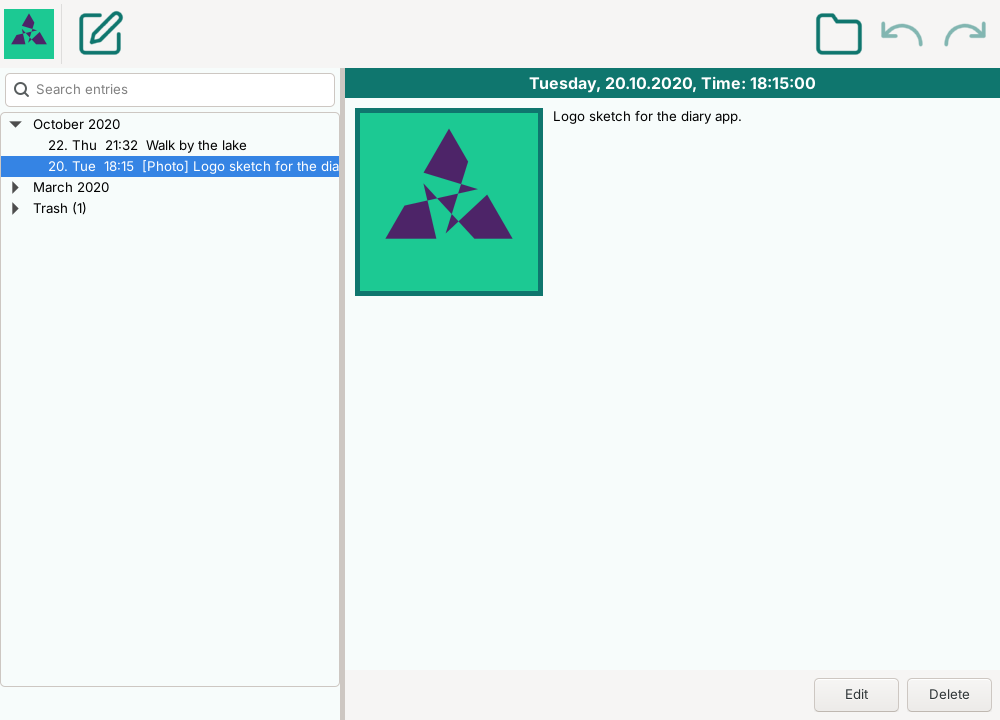
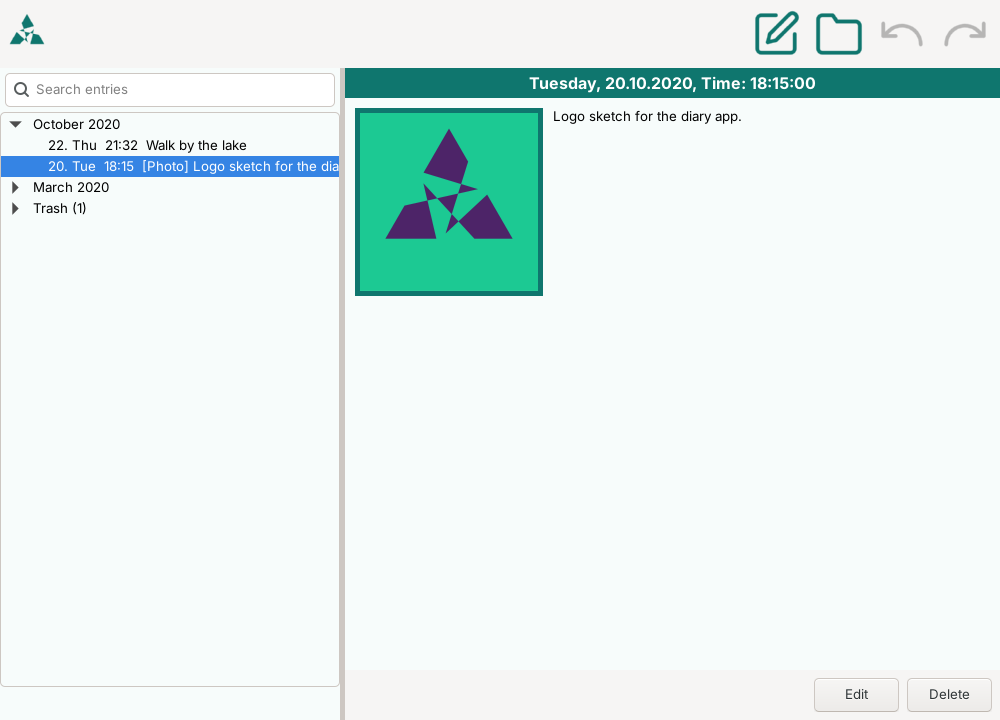
Small fixes (#43)
- Remove image only with an image, upload/take image only without one.
- All tools of the top bar are on the right of the logo.
- Disabled tools (undo/redo) get their own gray, faded icon on every platform.
- No blinking cursor in the read-only text (Windows: HideCaret).
- New logo as an SVG in currentColor (theme color), made by tools/make_logo.py;
  the icons use currentColor too. The unused icons and the old logo are gone.

Claude-Session: https://claude.ai/code/session_01LCQ9y7tKBQPgtgxiUpDuzf

Changed region(s): [[0.0, 0.0, 0.124, 0.0917], [0.744, 0.0, 0.806, 0.0917], [0.868, 0.0306, 0.992, 0.0611]]

diff --git a/story_time/user_interface.py b/story_time/user_interface.py
@@ -20,11 +20,13 @@ from story_time.util import (
     bar_text_col,
     but_bg_col,
     datetime_to_wx_datetime,
+    disabled_bitmap,
     format_date_time,
     get_image_to_show,
     header_col,
     header_f_info,
     header_text_col,
+    hide_caret,
     icon_path,
     resource_filename,
     scale_bitmap,
@@ -113,6 +115,11 @@ class TextAndImgPanel(wx.Panel):
             # Read-only, but scrollable to be able to read long entries
             kws["style"] |= wx.TE_READONLY | wx.BORDER_NONE
             self.text_box = wx.TextCtrl(self, value=text_shown, **kws)
+            # Nothing is typed here, so there should be no blinking cursor
+            for event in (wx.EVT_SET_FOCUS, wx.EVT_LEFT_UP, wx.EVT_KEY_UP):
+                self.text_box.Bind(
+                    event, lambda e: (e.Skip(), wx.CallAfter(hide_caret, self.text_box))
+                )
         self.text_box.SetBackgroundColour(bg_col)
 
         exp_all = wx.EXPAND | wx.ALL
@@ -369,20 +376,18 @@ class ToolbarPanel(wx.Panel):
         self.toolbar.SetToolBitmapSize(icon_size)
 
         # The logo on the left
-        logo = wx.Image(os.path.join(icon_path, "Entwurf.jpg"), wx.BITMAP_TYPE_ANY)
-        logo.Rescale(*icon_size, wx.IMAGE_QUALITY_HIGH)
-        self.logo = wx.StaticBitmap(self.toolbar, bitmap=wx.Bitmap(logo))
+        logo = wx.Bitmap(os.path.join(icon_path, "logo.png"), wx.BITMAP_TYPE_ANY)
+        self.logo = wx.StaticBitmap(self.toolbar, bitmap=scale_bitmap(logo, 46, 46))
         self.toolbar.AddControl(self.logo)
-        self.toolbar.AddSeparator()
+        # Everything else is on the right
+        self.toolbar.AddStretchableSpace()
 
-        for n, spec in enumerate(self.tool_list):
-            if n == 1:
-                # What is on the right of the window
-                self.toolbar.AddStretchableSpace()
+        for spec in self.tool_list:
             tool_id = wx.Window.NewControlId()
             icon = scale_bitmap(
                 wx.Bitmap(resource_filename(f"Icons/{spec.icon}")), *icon_size
             )
+            disabled = disabled_bitmap(icon)
             add_tool = (
                 self.toolbar.AddCheckTool if spec.toggle else self.toolbar.AddTool
             )
@@ -390,6 +395,7 @@ class ToolbarPanel(wx.Panel):
                 tool_id,
                 tr(f"{spec.text_key}.name"),
                 icon,
+                disabled,
                 shortHelp=self.tool_help(spec.text_key, spec.shortcut),
             )
             self.tools.append(tool)
@@ -446,7 +452,7 @@ class StoryTimeAppUI(wx.Frame):
         self.default_img_drop = os.path.join(icon_path, "default_img_txt.png")
         icon = wx.Icon()
         icon.CopyFromBitmap(
-            wx.Bitmap(os.path.join(icon_path, "Entwurf.jpg"), wx.BITMAP_TYPE_ANY)
+            wx.Bitmap(os.path.join(icon_path, "logo.png"), wx.BITMAP_TYPE_ANY)
         )
         self.SetIcon(icon)
         self.init_ui()
@@ -677,8 +683,10 @@ class StoryTimeAppUI(wx.Frame):
         self.image_drop_space.SetBitmap(
             get_image_to_show(self.default_img_drop if path is None else path)
         )
-        # The button to remove the image is only there if there is one
+        # An image is removed, otherwise one is added
         self.remove_image_button.Show(path is not None)
+        self.upload_button.Show(path is None)
+        self.selfie_button.Show(path is None)
         self.input_text_sizer.Layout()
         self.resized_layout()
 

diff --git a/tests/test_ui.py b/tests/test_ui.py
@@ -312,10 +312,20 @@ class TestTools(TestCase):
             shown = (
                 frame.draft_image,
                 frame.remove_image_button.IsShown(),
+                frame.upload_button.IsShown(),
+                frame.selfie_button.IsShown(),
                 frame.image_drop_space.IsShown(),
             )
+            press_button(frame.remove_image_button)
+            again = (
+                frame.remove_image_button.IsShown(),
+                frame.upload_button.IsShown(),
+                frame.selfie_button.IsShown(),
+            )
         assert dialogs.image_file_asked == 2 and nothing is None
-        assert shown == (TEST_IMG, True, True)
+        # With an image it can only be removed, without one only be added
+        assert shown == (TEST_IMG, True, False, False, True)
+        assert again == (False, True, True)
 
     def test_take_image_button(self):
         with main_window() as (frame, dialogs):
@@ -452,19 +462,33 @@ class TestTools(TestCase):
             os.path.join(img_dir, "IMG_1.jpg"),
         ]
 
-    def test_logo_is_on_the_left_and_undo_on_the_right(self):
+    def test_the_tools_are_on_the_right_of_the_logo(self):
         with main_window() as (frame, _):
-            logo = frame.toolbar.GetToolPos(frame.new_tool.Id)
-            positions = [
-                frame.toolbar.GetToolPos(t.Id)
-                for t in (
-                    frame.new_tool,
-                    frame.folder_tool,
-                    frame.undo_tool,
-                    frame.redo_tool,
-                )
-            ]
-        assert positions == sorted(positions) and logo > 0
+            toolbar = frame.toolbar
+            tools = (
+                frame.new_tool,
+                frame.folder_tool,
+                frame.undo_tool,
+                frame.redo_tool,
+            )
+            positions = [toolbar.GetToolPos(t.Id) for t in tools]
+        # The logo and the space that pushes the tools to the right come first
+        assert positions == sorted(positions) and positions[0] >= 2
+
+    def test_disabled_tools_have_their_own_gray_icon(self):
+        with main_window() as (frame, _):
+            enabled = frame.undo_tool.GetNormalBitmap().ConvertToImage()
+            disabled = frame.undo_tool.GetDisabledBitmap().ConvertToImage()
+        assert disabled.GetSize() == enabled.GetSize()
+        # Gray, and fainter than the icon
+        pixels = [
+            (disabled.GetRed(x, y), disabled.GetGreen(x, y), disabled.GetBlue(x, y))
+            for x in range(disabled.GetWidth())
+            for y in range(disabled.GetHeight())
+            if disabled.GetAlpha(x, y) > 0
+        ]
+        assert pixels and all(r == g == b for r, g, b in pixels)
+        assert max(disabled.GetAlpha()) < max(enabled.GetAlpha())
 
 
 class TestEditAndDelete(TestCase):

diff --git a/tools/make_logo.py b/tools/make_logo.py
@@ -1,0 +1,69 @@
+"""Writes the logo of the app as `story_time/Icons/src/logo.svg`.
+
+The shape is the "fancy triangle" of https://github.com/chbauman/SVGIcons
+(`my_tria.py`): a triangle whose sides are cut by the corners of a smaller,
+rotated triangle. It is drawn in `currentColor`, so `render_icons.py` gives it
+the color of the theme.
+
+Run from the repository root: `python tools/make_logo.py`.
+"""
+
+import math
+from pathlib import Path
+
+OUT = Path(__file__).resolve().parent.parent / "story_time" / "Icons" / "src"
+
+SIDE = 300.0  #: Side length of the main triangle.
+INNER_RATIO = 0.43  #: Side length of the inner triangle relative to the main one.
+INNER_ANGLE = 54.0  #: Rotation of the inner triangle in degrees.
+CUT_START = 0.3  #: Where on a side the cut starts, as a fraction of the side.
+CUT_END = 0.4  #: Where on a side the cut ends, as a fraction from the far corner.
+
+
+def triangle(side: float, rotation: float = 0.0) -> list[tuple[float, float]]:
+    """The corners of an upright isosceles triangle around the origin."""
+    to_corner = 0.5 / math.cos(math.radians(30))
+    below = math.sqrt(0.75) - to_corner
+    corners = [(-0.5, -below), (0.5, -below), (0.0, to_corner)]
+    angle = math.radians(rotation)
+    cos, sin = math.cos(angle), math.sin(angle)
+    return [
+        (side * (cos * x - sin * y), side * (sin * x + cos * y)) for x, y in corners
+    ]
+
+
+def logo_path() -> str:
+    main = triangle(SIDE)
+    inner = triangle(INNER_RATIO * SIDE, -INNER_ANGLE)
+    points = []
+    previous = main[-1]
+    for k, corner in enumerate(main):
+        side = (corner[0] - previous[0], corner[1] - previous[1])
+        points += [
+            (previous[0] + CUT_START * side[0], previous[1] + CUT_START * side[1]),
+            inner[(k + 1) % 3],
+            (
+                previous[0] + (1 - CUT_END) * side[0],
+                previous[1] + (1 - CUT_END) * side[1],
+            ),
+            corner,
+        ]
+        previous = corner
+    # The y axis of SVG points down
+    path = " ".join(f"{x:.1f},{-y:.1f}" for x, y in points)
+    return f"M{path}Z"
+
+
+def main() -> None:
+    svg = (
+        '<svg xmlns="http://www.w3.org/2000/svg" viewBox="-200 -200 400 400" '
+        'width="400" height="400" fill="currentColor">\n'
+        f'  <path d="{logo_path()}"/>\n'
+        "</svg>\n"
+    )
+    (OUT / "logo.svg").write_text(svg, encoding="utf8")
+    print(f"Wrote {OUT / 'logo.svg'}")
+
+
+if __name__ == "__main__":
+    main()

diff --git a/story_time/util.py b/story_time/util.py
@@ -4,6 +4,7 @@ conversion of dates from and to `wx.DateTime`.
 """
 
 import os
+import sys
 from collections.abc import Callable
 from datetime import datetime
 from typing import Any
@@ -20,6 +21,8 @@ def resource_filename(rel_path: str) -> str:
 
 
 icon_path = resource_filename("Icons")
+
+DISABLED_OPACITY = 0.4  #: How much of its opacity a disabled icon keeps.
 
 # Set colors
 teal = wx.Colour(15, 118, 110)  #: Accent color.
@@ -49,6 +52,30 @@ def scale_bitmap(bitmap: wx.Bitmap, width: int, height: int) -> wx.Bitmap:
     image = image.Scale(width, height, wx.IMAGE_QUALITY_HIGH)
     result = wx.Bitmap(image)
     return result
+
+
+def disabled_bitmap(bitmap: wx.Bitmap) -> wx.Bitmap:
+    """A gray and faded version of a bitmap, for a tool that is not applicable.
+
+    wx makes one itself on some platforms only, so it is made here for all.
+    """
+    image = bitmap.ConvertToImage().ConvertToGreyscale()
+    if image.HasAlpha():
+        alpha = image.GetAlpha()
+        image.SetAlpha(bytes(int(a * DISABLED_OPACITY) for a in alpha))
+    return wx.Bitmap(image)
+
+
+def hide_caret(window: wx.Window) -> None:
+    """Hides the blinking cursor of a read-only text on Windows.
+
+    Windows shows it in a read-only text that has the focus. Elsewhere there is
+    none and nothing is done.
+    """
+    if sys.platform == "win32":
+        import ctypes
+
+        ctypes.windll.user32.HideCaret(window.GetHandle())
 
 
 def wx_datetime_to_datetime(date: wx.DateTime) -> datetime:

diff --git a/tests/test_util.py b/tests/test_util.py
@@ -1,12 +1,16 @@
 from datetime import datetime
 from unittest import TestCase
+from unittest.mock import MagicMock, patch
 
 import wx
 
 from story_time.util import (
+    DISABLED_OPACITY,
     FileDrop,
     datetime_to_wx_datetime,
+    disabled_bitmap,
     format_date_time,
+    hide_caret,
     scale_bitmap,
     wx_datetime_to_datetime,
 )
@@ -26,6 +30,22 @@ class TestUtil(TestCase):
         assert ",".join(res.split(",")[1:]) == " 2.12.2020, Time: 05:31:00"
         # The weekday comes from wx
         assert res.split(",")[0] == wx.DateTime.GetWeekDayName(wx.DateTime.Wed)
+
+    def test_disabled_bitmap(self):
+        with create_app():
+            image = wx.Image(4, 4)
+            image.SetRGB(wx.Rect(0, 0, 4, 4), 15, 118, 110)
+            image.SetAlpha(bytes([200] * 16))
+            result = disabled_bitmap(wx.Bitmap(image)).ConvertToImage()
+            assert (result.GetWidth(), result.GetHeight()) == (4, 4)
+            assert result.GetRed(1, 1) == result.GetGreen(1, 1) == result.GetBlue(1, 1)
+            assert result.GetAlpha(1, 1) == int(200 * DISABLED_OPACITY)
+
+    def test_hide_caret_does_nothing_but_on_windows(self):
+        window = MagicMock()
+        with patch("story_time.util.sys.platform", "linux"):
+            hide_caret(window)
+        window.GetHandle.assert_not_called()
 
     def test_scale_bitmap(self):
         with create_app():

diff --git a/tools/render_icons.py b/tools/render_icons.py
@@ -11,6 +11,8 @@ from playwright.sync_api import sync_playwright
 
 ICON_DIR = Path(__file__).resolve().parent.parent / "story_time" / "Icons"
 SIZE = 128  #: Edge length in pixels of the rendered icons.
+#: The accent color of the theme, `util.teal`. The icons are drawn in `currentColor`.
+THEME_COLOR = "#0F766E"
 
 
 def main() -> None:
@@ -22,8 +24,8 @@ def main() -> None:
         for svg in sorted((ICON_DIR / "src").glob("*.svg")):
             page.set_content(
                 "<style>html,body{margin:0;background:transparent}"
-                f"svg{{width:{SIZE}px;height:{SIZE}px;display:block}}</style>"
-                + svg.read_text(encoding="utf8")
+                f"svg{{width:{SIZE}px;height:{SIZE}px;display:block;color:{THEME_COLOR}}}"
+                "</style>" + svg.read_text(encoding="utf8")
             )
             out = ICON_DIR / f"{svg.stem}.png"
             page.screenshot(path=str(out), omit_background=True)

diff --git a/README.md b/README.md
@@ -111,7 +111,9 @@ The tests of the main window and of the dialogs open real windows, so on a
 headless machine run them under a virtual display, e.g. with `xvfb-run`.
 Tests that need a webcam are skipped if none is available.
 
-The toolbar icons are drawn as SVG files in `story_time/Icons/src`.
+The toolbar icons and the logo are drawn as SVG files in `story_time/Icons/src`,
+in `currentColor`, which `render_icons.py` sets to the color of the theme. The
+shape of the logo comes from `python tools/make_logo.py`.
 After changing one, re-render the PNGs the app loads with
 `python tools/render_icons.py` (needs `playwright`).
 
